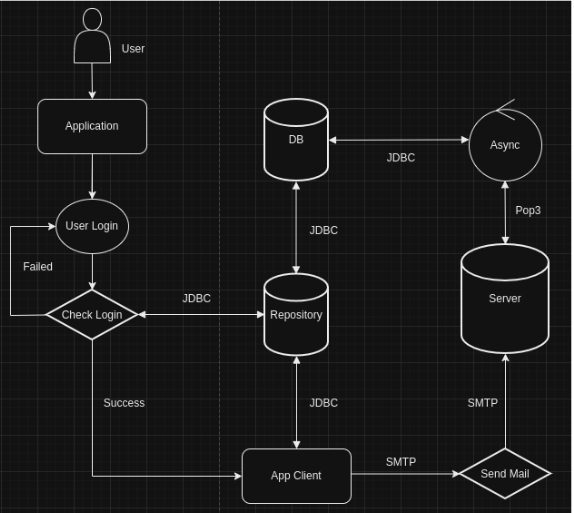
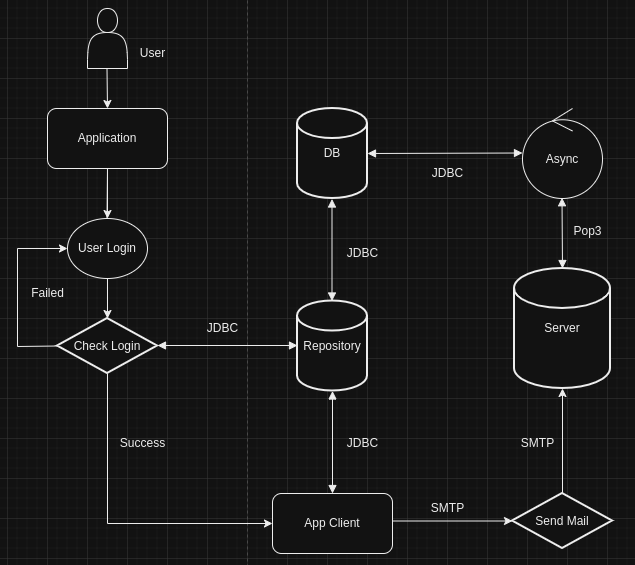
update readme

diff --git a/readme.md b/readme.md
@@ -3,6 +3,8 @@
 This project is a mail client application that utilizes the SMTP (Simple Mail Transfer Protocol) and POP3 (Post Office Protocol 3) protocols.
 ``Author: 18600355@student.hcmus.edu.vn``
 ***
+# Application Diagram
+![alt text](https://github.com/taolong-thao/Socket-Client/blob/master/diagram-application.png?raw=true)
 ## Prerequisites
 
 - JDK (Java Development Kit) 8 or later
